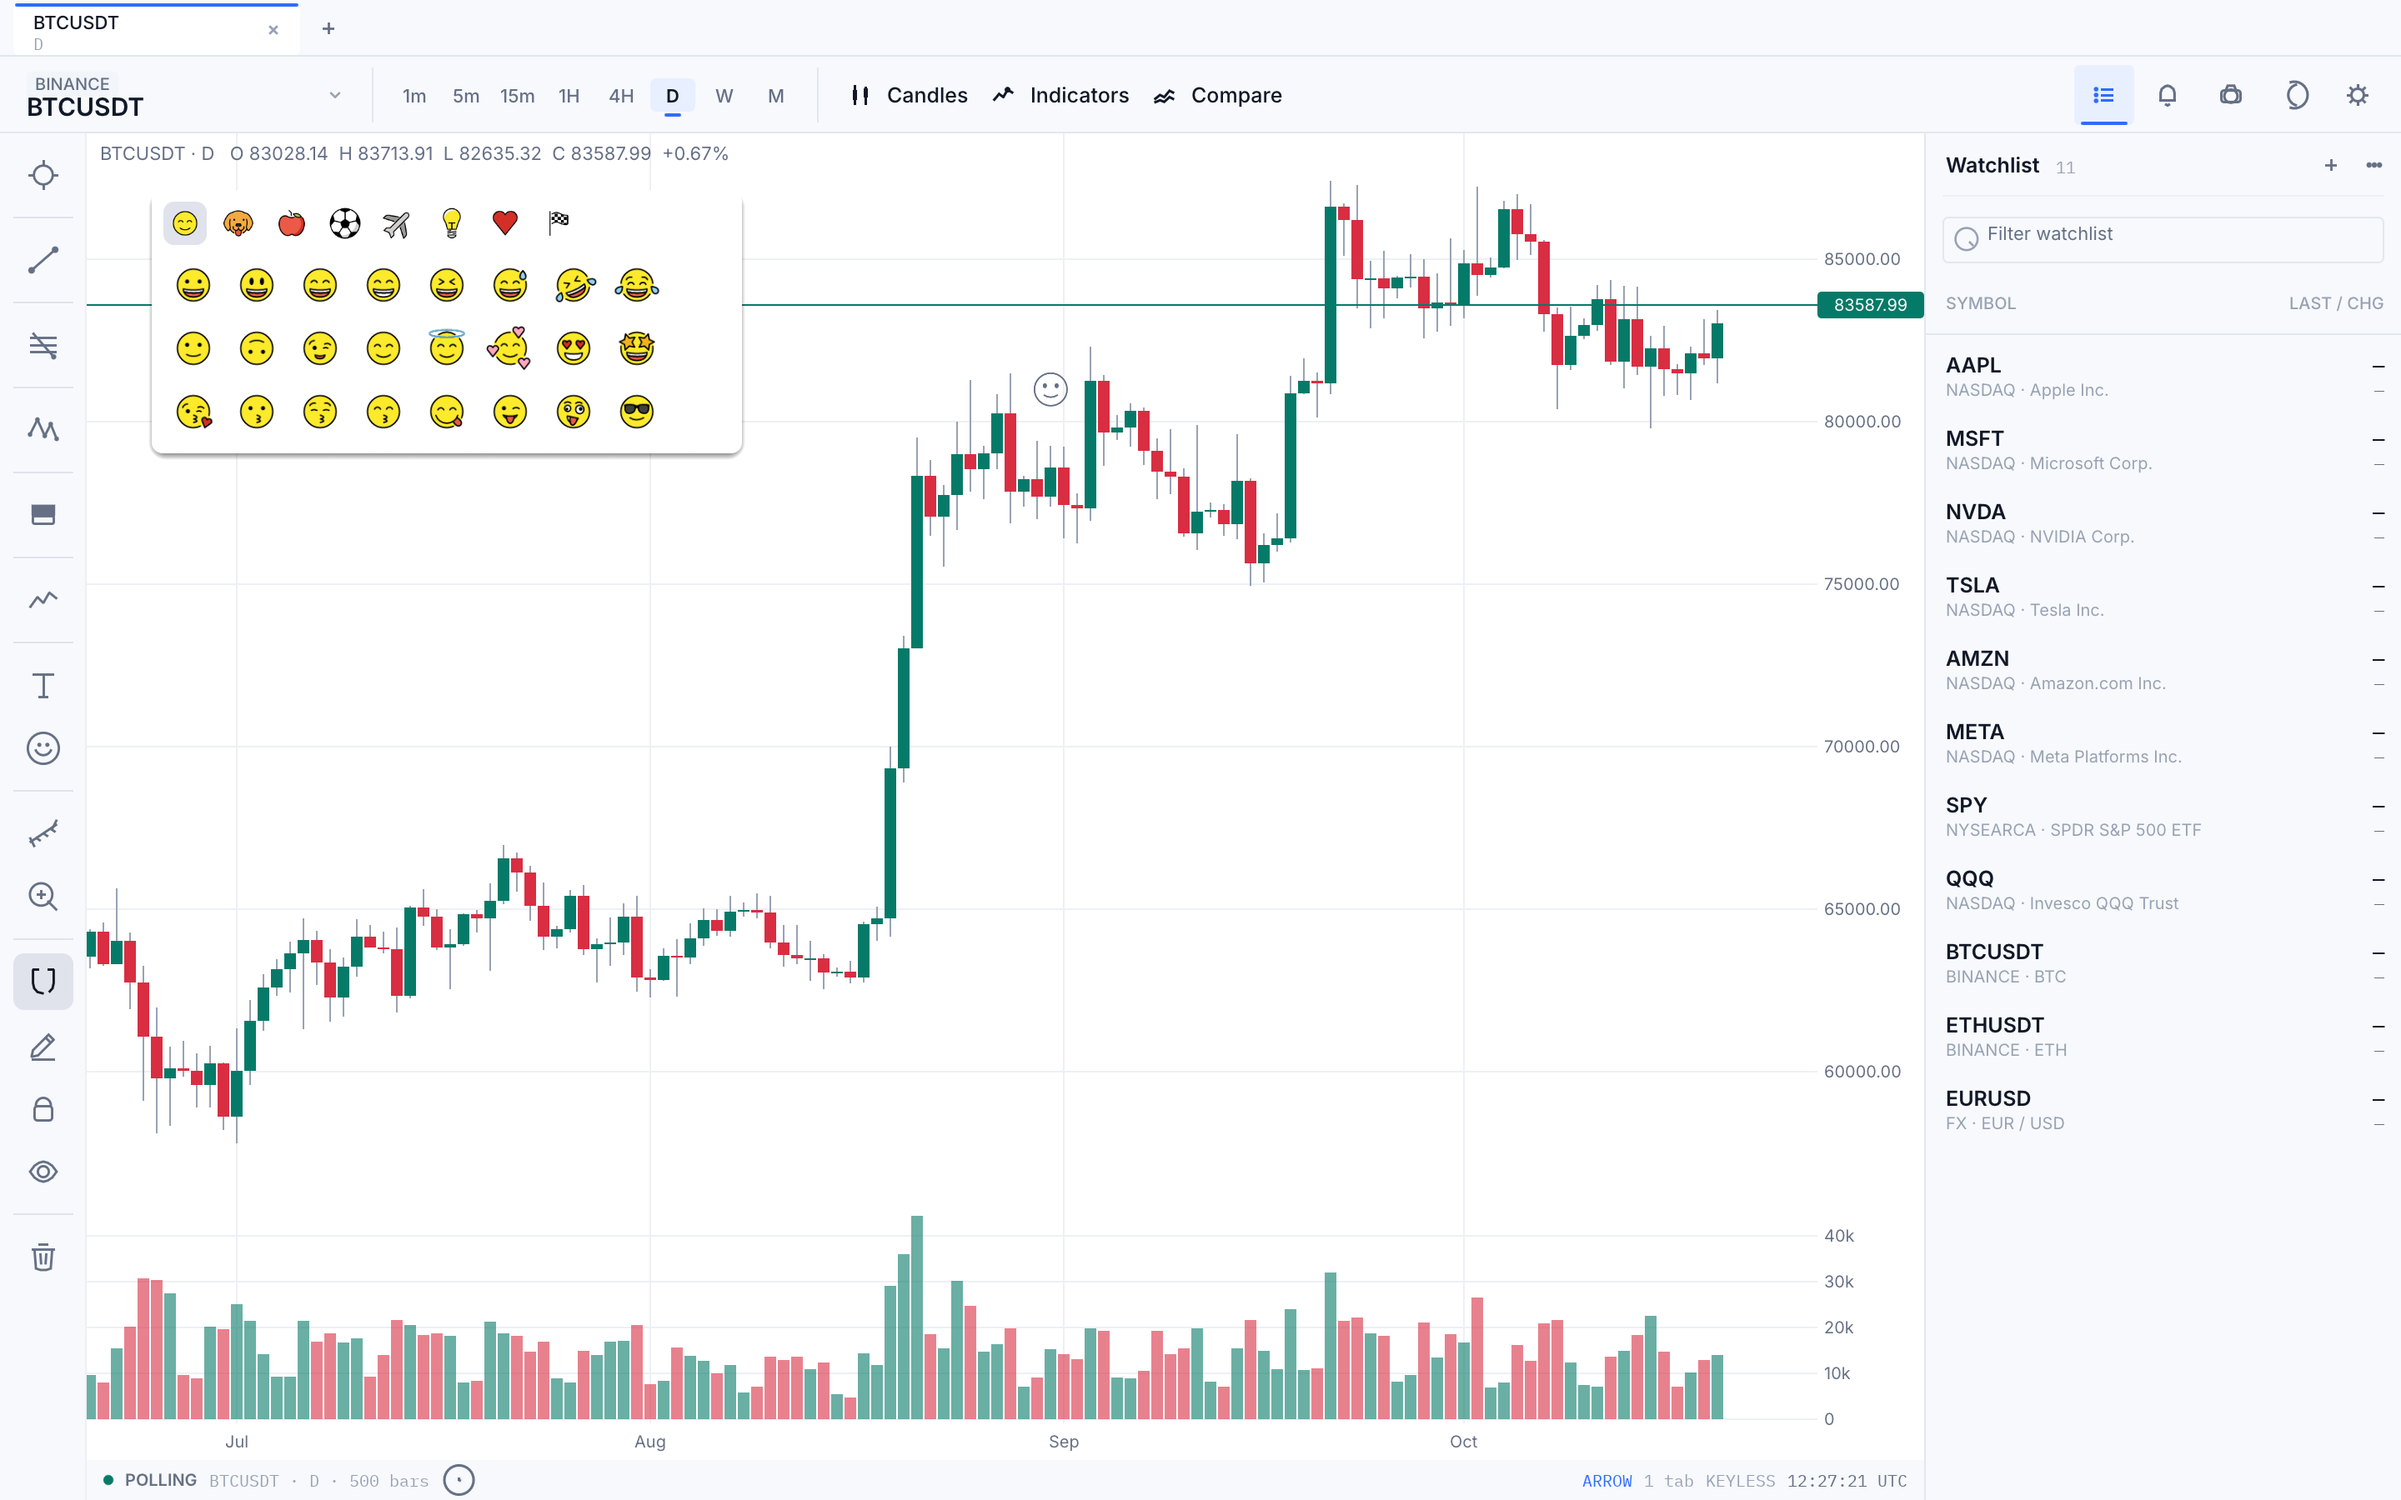
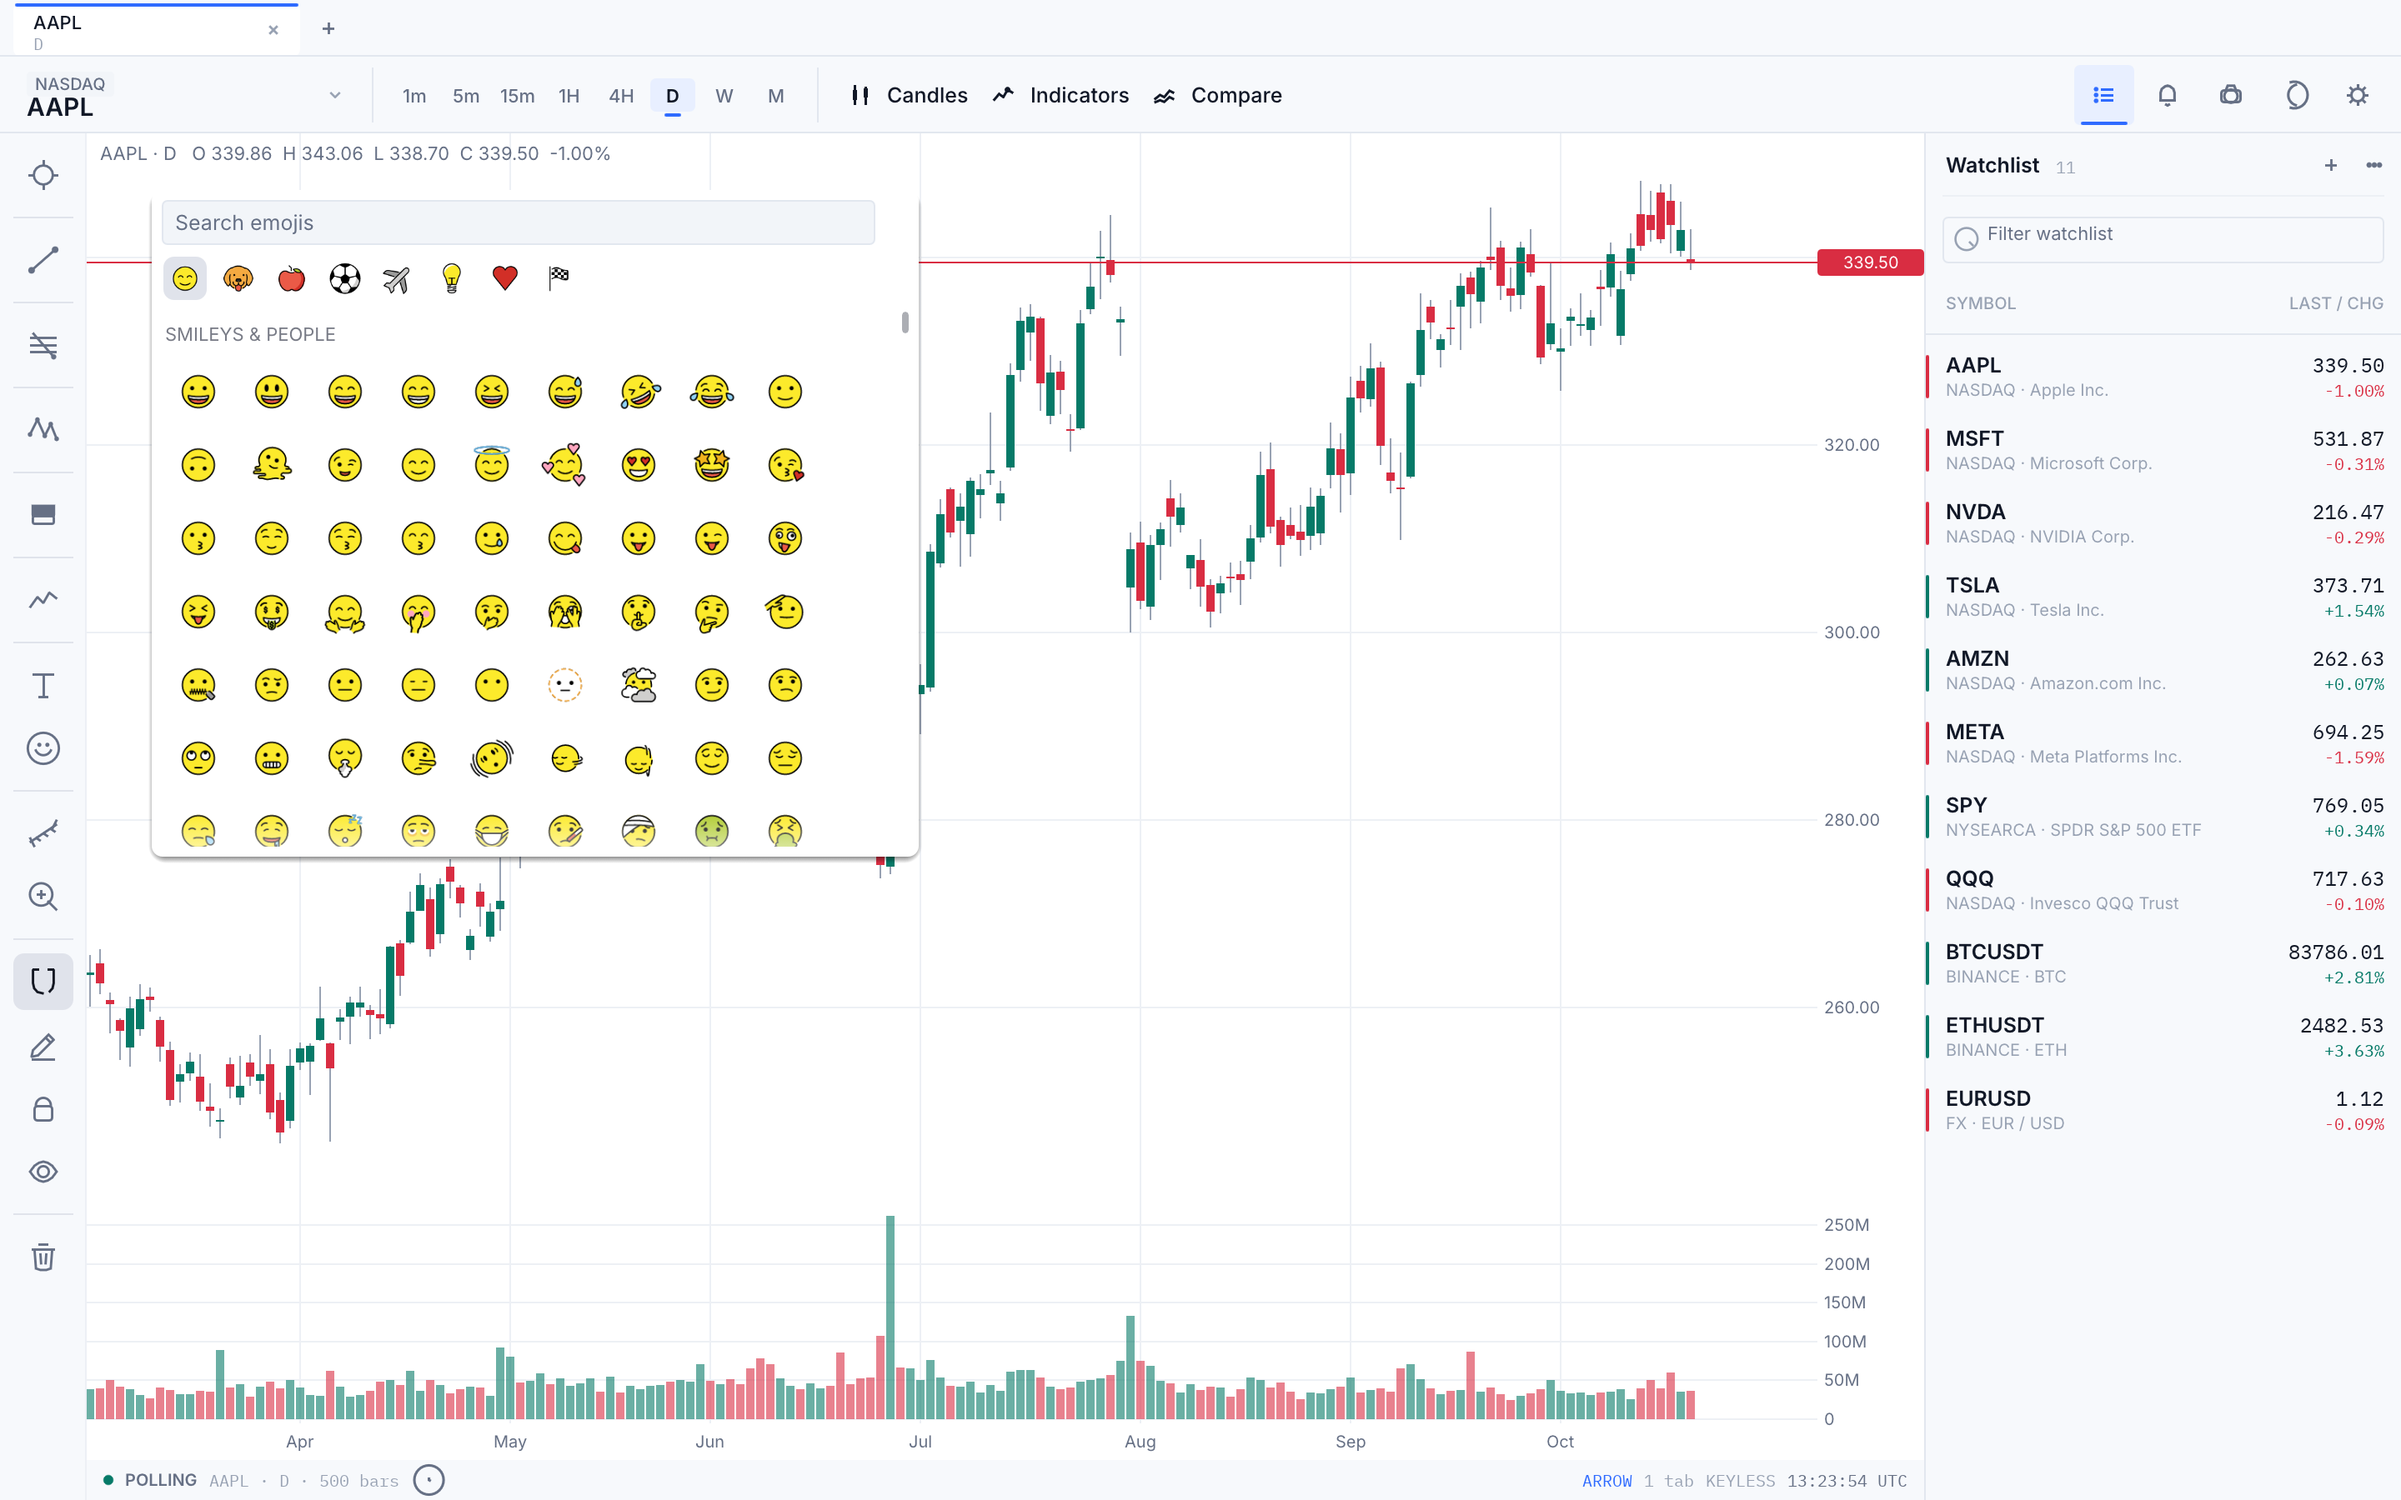
docs: emoji picker + chart SVG atlas in README/PARITY/evidence; interaction proof captures

diff --git a/PARITY.md b/PARITY.md
@@ -18,7 +18,7 @@ full web platform.
 | Right watchlist | Partial | Add/remove, filter, selection, quote change bars, context menu; no sections or sparklines |
 | Alerts | Partial | Price crossing above/below, polling, persisted; no sounds or notifications |
 | Drawing tools | Done | 94 rail tools across eight TV groups: cursors/cross/dot/demonstration/magic/eraser, trend lines/channels/four pitchforks, 11 Fibonacci + 4 Gann tools, six chart patterns, five Elliott waves, three cycle tools, long/short/position forecast, sector, price/date ranges, brush/highlighter, rectangles/circle/triangle/path/polyline/arc/curve/double curve, arrows, notes/callouts/comments/pins/signposts/flags, plain text, post/idea content cards, anchored VWAP, fixed-range and anchored volume profiles, bars pattern, ghost feed, editable table; select/move/delete, top-right selected-object bar (style/width/color/settings, lock, hide, z-order, clone/copy/paste, interval visibility, delete) with multi-select and marquee, remove-all, keep-drawing, weak/strong magnet, per-symbol persistence; shift-drag rectangle zoom, Esc resets. Parity manifest: all 90 in-scope drawings `verified`, 2 excluded (`docs/parity/STATUS.md`). Deferred: crosshair-rectangle modifier, brush/pitchfork auto-styles beyond color/width/line |
-| Drawing tool panel | Done | Eight grouped rail sections plus Measure/Zoom/utility groups; main click waits 175 ms then selects, second click/double-click/arrow/300 ms long press opens the selector; content-sized 193-360 px viewport-clamped flyout with 40 px rows, 24 px headers, edge-to-edge 1 px dividers, 13 px section gaps, 6 px radius; open flyouts/menus block chart hover/pan/zoom under the pointer; global inline favorite stars persisted in config v2; `⌥T`/`⌥H`/`⌥J`/`⌥V`/`⌥C`/`⌥F`/`⇧⌥R` shortcuts; outside-click and Esc close. The Icons group opens a 354 px emoji picker (8 categories × 24 monochrome Noto Emoji glyphs, TV font-icon equivalent); image media remains excluded |
+| Drawing tool panel | Done | Eight grouped rail sections plus Measure/Zoom/utility groups; main click waits 175 ms then selects, second click/double-click/arrow/300 ms long press opens the selector; content-sized 193-360 px viewport-clamped flyout with 40 px rows, 24 px headers, edge-to-edge 1 px dividers, 13 px section gaps, 6 px radius; open flyouts/menus block chart hover/pan/zoom under the pointer; global inline favorite stars persisted in config v2; `⌥T`/`⌥H`/`⌥J`/`⌥V`/`⌥C`/`⌥F`/`⇧⌥R` shortcuts; outside-click and Esc close. The Icons group opens a 460×560 px TradingView-style emoji picker: search field (CLDR-name + keyword ranking), eight OpenMoji category tabs, virtualized grouped grid of 1,584 full-color OpenMoji SVGs (CC BY-SA 4.0, vendored in `crates/app/assets/openmoji/`) with natural wheel scrolling, tab click-jump and active-tab-follows-viewport; placed `Emoji` drawings render from the same SVG atlas; image media remains excluded |
 | Compare symbol overlay | Done | Normalized close line, timestamp alignment, percent legend, search, remove/replace, per-tab persistence |
 | Layout persistence | Done | Config v2, atomic writes, transparent v1 migration; drawings, drawing lock/hide, keep-drawing, magnet strength, compare and global tool-panel favorites included |
 | Command bar and status bar | Done | Symbol, intervals, styles, studies, alerts, theme, settings, UTC clock |

diff --git a/README.md b/README.md
@@ -51,8 +51,8 @@ curated offline symbol index so search works before the network responds.
   Per-drawing hidden/locked/interval state persists with serde defaults, so
   older configs load unchanged. Drawings are stored by
   timestamp and persisted per symbol. Data-bound/media TV tools (volume
-  profiles, anchored VWAP, bars pattern, ghost feed, tables, images, posts,
-  ideas) and the emoji Icons group remain out of scope.
+  profiles, anchored VWAP, bars pattern, ghost feed, tables, images) remain
+  out of scope.
 - TradingView-style grouped tool rail: one button per tool family with a
   two-target hit area. A first click selects the group's remembered tool after
   the 175 ms double-click window; a second click, double-click, arrow click or
@@ -194,8 +194,11 @@ and utility menus block chart hover/pan/zoom under the pointer and their
 section dividers run edge-to-edge; the forecasting group now orders
 VOLUME-BASED before MEASURERS and the annotation group gains a CONTENT
 subcategory with Post (`LineToolTweet`) and Idea (`LineToolIdea`) cards; the
-eighth rail group Icons opens a 354 px emoji picker (8 categories × 24
-monochrome Noto Emoji glyphs) placing `Emoji` drawings; the Cursors group
+eighth rail group Icons opens a TradingView-style emoji picker (460×560 px:
+search field, eight OpenMoji category tabs, virtualized grouped grid of 1,584
+full-color OpenMoji SVGs with natural wheel scrolling and tab click-jumps)
+placing `Emoji` drawings, which render from the same SVG atlas on the chart;
+the Cursors group
 gains Dot, Demonstration and Magic (TV performance) modes — dot placement,
 spotlight dimming and drawing-hiding respectively — with the rail Magnet and
 Lock buttons wired to weak/strong snapping and selection locking. Manifest:

diff --git a/docs/evidence/INDEX.md b/docs/evidence/INDEX.md
@@ -49,3 +49,8 @@ the written side-by-side review is `docs/parity/final-review.md`.
 - `python3 research/studies/build_catalog.py` — `docs/evidence/tv/studies-catalog.json`
 - `python3 research/studies/gen_goldens.py` — golden consts (`crates/ta/src/gold_*.rs`, `crates/tickchart/tests/drawing_goldens.rs` fixtures)
 - Screenshots: `TICKVIEW_CONFIG_DIR=$(mktemp -d) TICKVIEW_SCENE=<scene> TICKVIEW_THEME=<dark|light> TICKVIEW_SNAPSHOT=<path> ./target/debug/tickview`
+- `python3 scripts/gen_emoji_catalog.py` — `crates/app/assets/openmoji/catalog.json`
+  (+ copies the base-color SVGs it references) from an OpenMoji 17.0.0 checkout;
+  the picker grid and chart `Emoji` drawings render from these files. Interaction
+  proof: `docs/screenshots/parity/emojipicker-{scroll,search,tabjump}.png`
+  (CGEvent wheel/search/tab-click) and `emoji-chart.png` (SVG-textured drawing).
